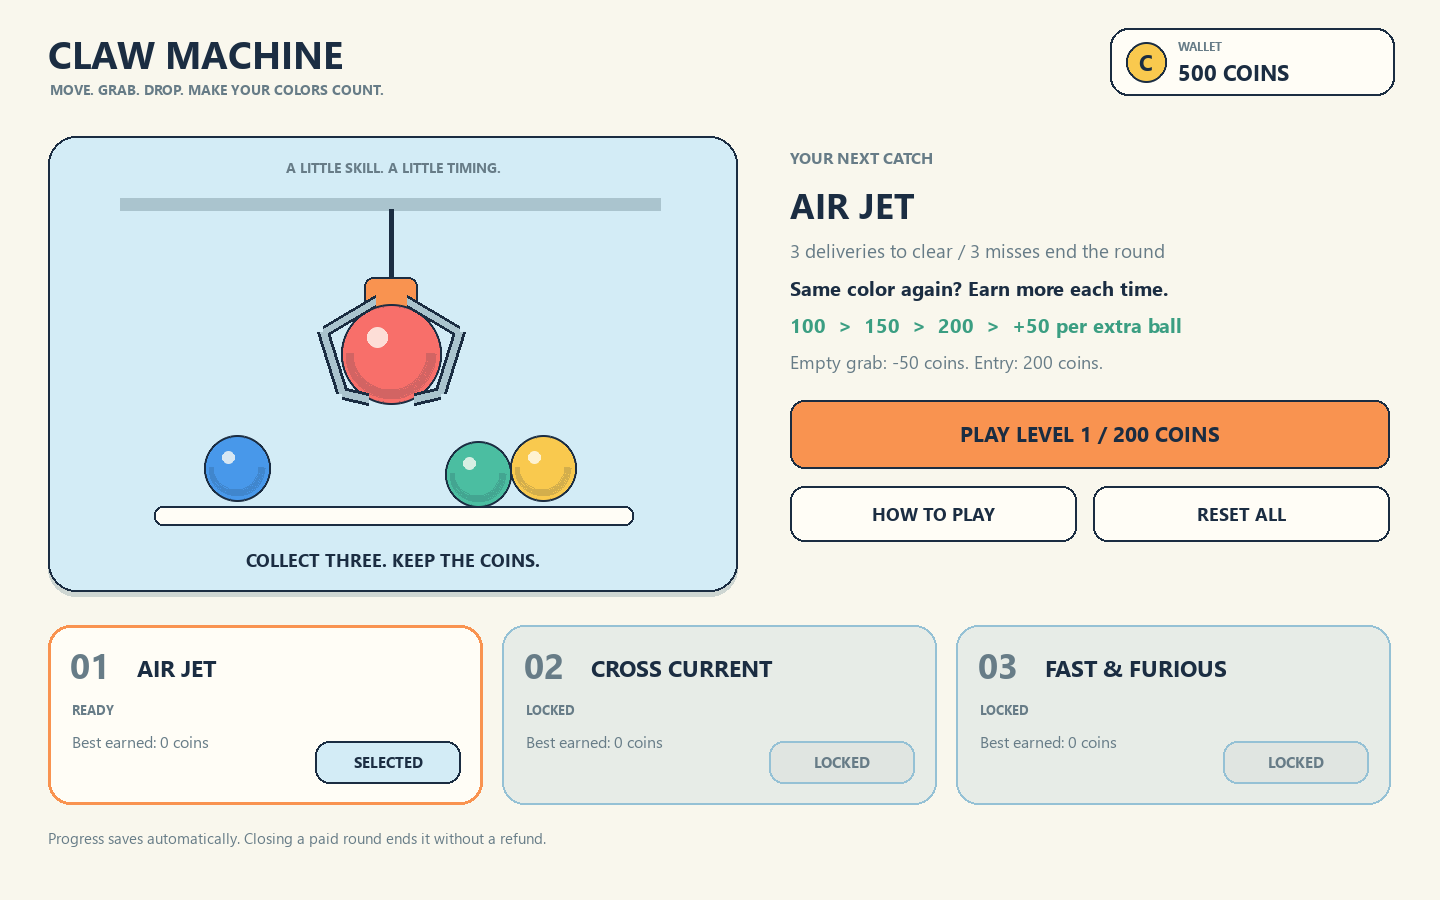
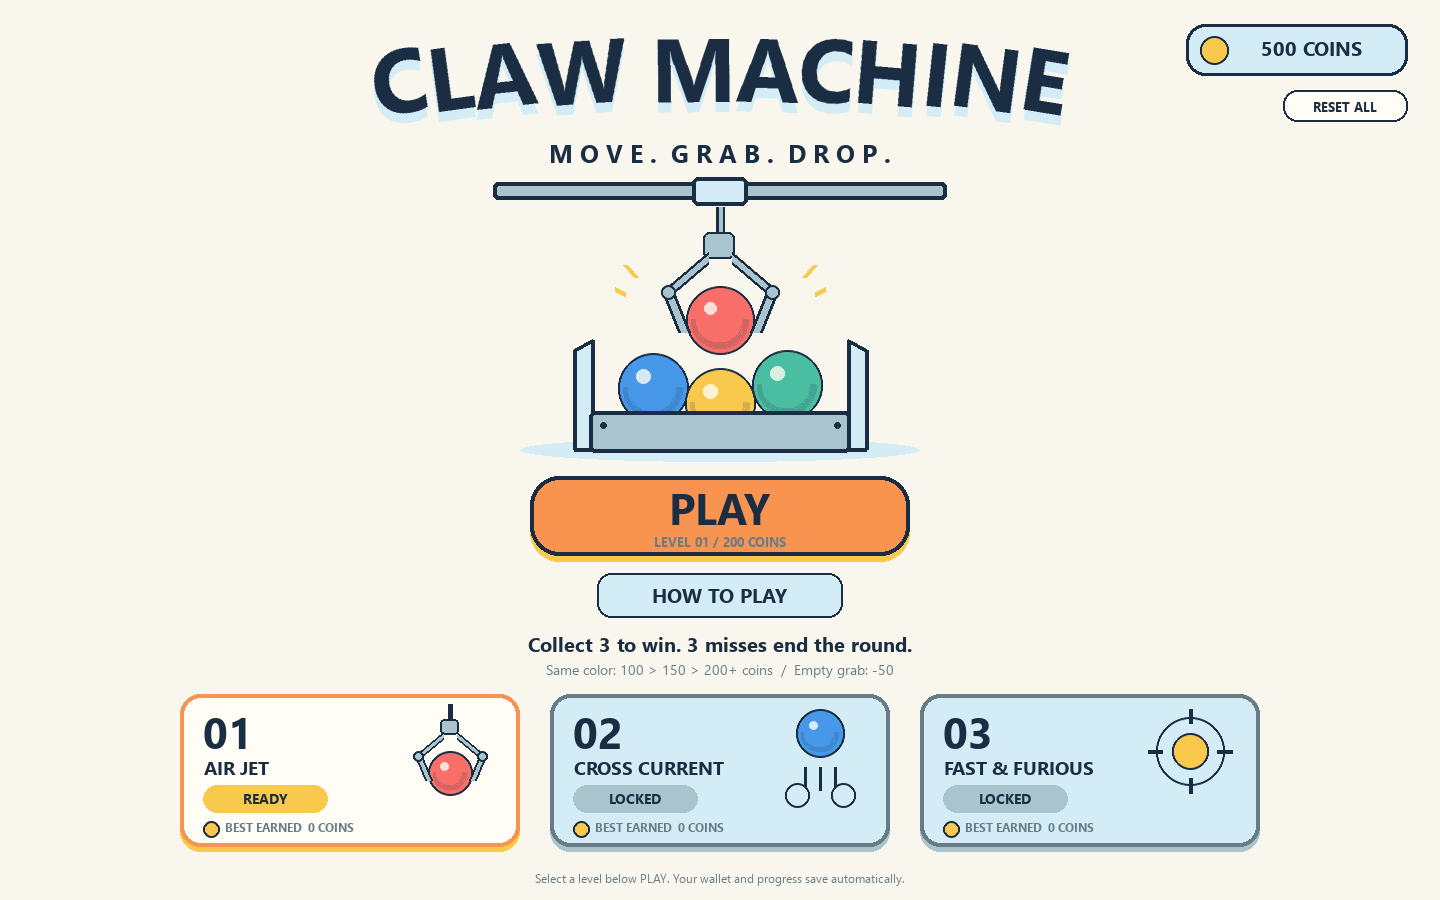
Restore centered illustrated start menu with coin campaign controls

diff --git a/app_view.py b/app_view.py
@@ -70,49 +70,120 @@ class AppView(View):
         self.text(subtitle, 50, 79, 14, MUTED, True)
         self.wallet()
 
+    def menu_title(self):
+        # Cache the curved lettering so the decorative title costs one blit per frame.
+        if not hasattr(self, '_menu_title'):
+            layer = pygame.Surface((1000, 142), pygame.SRCALPHA)
+            font = self.font(180, True)
+            word = 'CLAW MACHINE'
+            total = font.size(word)[0]/2
+            offset = (1000-total)/2
+            for index, char in enumerate(word):
+                left = font.size(word[:index])[0]/2
+                width = font.size(char)[0]/2
+                t = (left+width/2)/total*2-1
+                angle = -t*10
+                center = (round(offset+left+width/2), round(64+13*t*t))
+                for color, dy in ((BLUE, 10), (INK, 0)):
+                    glyph = pygame.transform.rotate(font.render(char, True, color), angle)
+                    glyph = pygame.transform.smoothscale(glyph, (max(1, glyph.get_width()//2), max(1, glyph.get_height()//2)))
+                    layer.blit(glyph, glyph.get_rect(center=(center[0], center[1]+dy)))
+            self._menu_title = layer
+        self.canvas.blit(self._menu_title, (220, 0))
+
+    def menu_claw(self, x, y, scale=1):
+        def point(dx, dy):
+            return (round(x+dx*scale), round(y+dy*scale))
+        self.box((x-14*scale, y-12*scale, 28*scale, 24*scale), STEEL, max(3, round(5*scale)))
+        self.ball(x, y+64*scale, 28*scale, PALETTE[0][1])
+        for side in (-1, 1):
+            points = [point(side*10, 10), point(side*45, 40), point(side*31, 75)]
+            pygame.draw.lines(self.canvas, INK, False, points, max(4, round(11*scale)))
+            pygame.draw.lines(self.canvas, STEEL, False, points, max(2, round(6*scale)))
+            self.circle(*point(side*45, 40), max(2, round(4*scale)), STEEL)
+
+    def level_icon(self, index, x, y):
+        if index == 0:
+            self.line((x, y-37), (x, y-17), INK, 5)
+            self.menu_claw(x, y-13, .70)
+        elif index == 1:
+            self.ball(x, y-8, 22, PALETTE[1][1])
+            for dx in (-15, 0, 15):
+                self.line((x+dx, y+26), (x+dx, y+49), INK, 3)
+            self.circle(x-23, y+54, 10, BLUE)
+            self.circle(x+23, y+54, 10, BLUE)
+        else:
+            self.circle(x, y+10, 32, BLUE)
+            self.circle(x, y+10, 16, PALETTE[2][1])
+            for dx, dy in ((-42, 0), (42, 0), (0, -42), (0, 42)):
+                self.line((x+dx, y+10+dy), (x+dx*.65, y+10+dy*.65), INK, 4)
+
     def menu(self):
         a = self.app
-        self.top('MOVE. GRAB. DROP. MAKE YOUR COLORS COUNT.')
-        self.box((48, 136, 690, 456), BLUE, 28, shadow=True)
-        self.text('A LITTLE SKILL. A LITTLE TIMING.', 393, 157, 14, MUTED, True, True)
-        self.line((120, 204), (660, 204), STEEL, 13)
-        self.line((391, 209), (391, 289), INK, 5)
-        self.box((364, 277, 54, 34), ORANGE, 9)
-        self.ball(391, 354, 48, PALETTE[0][1])
-        for side in (-1, 1):
-            points = [(391+side*16, 301), (391+side*68, 332), (391+side*49, 393), (391+side*23, 399)]
-            pygame.draw.lines(self.canvas, INK, False, points, 13)
-            pygame.draw.lines(self.canvas, STEEL, False, points, 7)
-        self.box((154, 506, 480, 20), PAPER, 8)
-        for x, y, c in ((237, 468, 1), (543, 468, 2), (478, 474, 3)):
-            self.ball(x, y, 31, PALETTE[c][1])
-        self.text('COLLECT THREE. KEEP THE COINS.', 393, 547, 18, bold=True, center=True)
+        self.menu_title()
+        self.text('M O V E .  G R A B .  D R O P .', 720, 136, 25, bold=True, center=True)
 
-        self.text('YOUR NEXT CATCH', 790, 146, 16, MUTED, True)
-        self.text(LEVEL_NAMES[a.selected-1], 790, 181, 35, bold=True)
-        self.text('3 deliveries to clear / 3 misses end the round', 790, 237, 19, MUTED)
-        self.text('Same color again? Earn more each time.', 790, 274, 20, bold=True)
-        self.text('100  >  150  >  200  >  +50 per extra ball', 790, 311, 20, GREEN, True)
-        self.text('Empty grab: -50 coins. Entry: 200 coins.', 790, 349, 18, MUTED)
+        # Compact wallet replaces the old concept's BEST SCORE badge.
+        self.box((1186, 24, 222, 52), BLUE, 19, INK, 3)
+        self.circle(1214, 50, 12, PALETTE[2][1])
+        self.text(f'{a.progress.coins:,} COINS', 1311, 34, 20, bold=True, center=True)
+        self.button('reset', 'RESET ALL', (1283, 90, 125, 32), PAPER, size=13)
+
+        self.box((493, 182, 454, 18), STEEL, 5, INK, 4)
+        self.box((692, 177, 56, 29), BLUE, 6, INK, 4)
+        self.line((720, 207), (720, 232), INK, 9)
+        self.line((720, 207), (720, 232), STEEL, 4)
+        self.menu_claw(720, 246, 1.15)
+        for side in (-1, 1):
+            self.line((720+side*84, 277), (720+side*95, 265), PALETTE[2][1], 5)
+            self.line((720+side*95, 294), (720+side*105, 289), PALETTE[2][1], 5)
+
+        # Open collection tray, with its front panel masking the lower balls.
+        pygame.draw.ellipse(self.canvas, BLUE, (520, 438, 400, 24))
+        for points in (((574, 350), (592, 340), (592, 449), (574, 449)),
+                       ((848, 340), (866, 350), (866, 449), (848, 449))):
+            pygame.draw.polygon(self.canvas, BLUE, points)
+            pygame.draw.polygon(self.canvas, INK, points, 4)
+        for x, y, color in ((653, 388, 1), (720, 403, 2), (787, 385, 3)):
+            self.ball(x, y, 33, PALETTE[color][1])
+        self.box((589, 411, 262, 42), STEEL, 6, INK, 4)
+        for x in (603, 837):
+            self.circle(x, 425, 3, INK, False)
+
         enough = a.progress.coins >= ENTRY_COST and not a.load_blocked
-        self.button('start', f'PLAY LEVEL {a.selected} / 200 COINS', (790, 400, 600, 69), enabled=enough)
-        self.button('help', 'HOW TO PLAY', (790, 486, 287, 56), PAPER, size=18)
-        self.button('reset', 'RESET ALL', (1093, 486, 297, 56), PAPER, size=18)
-        if not enough:
-            self.text('RESET ALL to restore 500 coins and start over.', 790, 559, 17, RED, True)
+        play = pygame.Rect(530, 476, 380, 80)
+        self.box(play.move(0, 6), PALETTE[2][1] if enough else STEEL, 29, width=0)
+        if enough:
+            self.buttons['start'] = play
+        self.box(play, mix(ORANGE, PAPER, .18) if enough and self.mouse and play.collidepoint(self.mouse) else (ORANGE if enough else (224, 229, 225)), 29, INK, 4)
+        self.text('PLAY' if enough else 'NOT ENOUGH COINS', 720, 478 if enough else 491, 43 if enough else 22, bold=True, center=True)
+        self.text(f'LEVEL 0{a.selected} / 200 COINS', 720, 532, 13, MUTED, True, True)
+        self.button('help', 'HOW TO PLAY', (597, 573, 246, 45), BLUE, size=20)
+        self.text('Collect 3 to win. 3 misses end the round.', 720, 630, 20, bold=True, center=True)
+        if enough:
+            self.text('Same color: 100 > 150 > 200+ coins  /  Empty grab: -50', 720, 659, 14, MUTED, center=True)
+        else:
+            self.text('RESET ALL restores 500 coins and clears all progress.', 720, 659, 15, RED, True, True)
+
         for i, name in enumerate(LEVEL_NAMES):
-            x = 48 + i*454
+            x, y = 180+i*370, 694
             unlocked = i+1 <= a.progress.unlocked and not a.load_blocked
             selected = i+1 == a.selected
-            self.box((x, 625, 435, 180), PAPER if unlocked else (231, 236, 231), 22,
-                     ORANGE if selected else MID_BLUE, 3 if selected else 2)
-            self.text(f'0{i+1}', x+22, 641, 35, GREEN if a.progress.cleared[i] else MUTED, True)
-            self.text(name, x+89, 652, 23, bold=True)
-            self.text(('CLEARED' if a.progress.cleared[i] else 'READY') if unlocked else 'LOCKED', x+24, 700, 13, MUTED, True)
-            self.text(f'Best earned: {a.progress.best[i]:,} coins', x+24, 730, 16, MUTED)
-            self.button(f'level_{i+1}', 'SELECTED' if selected else ('SELECT' if unlocked else 'LOCKED'),
-                        (x+267, 741, 146, 43), BLUE, enabled=unlocked, size=15)
-        self.text('Progress saves automatically. Closing a paid round ends it without a refund.', 48, 827, 15, MUTED)
+            border = ORANGE if selected else MUTED
+            fill = PAPER if selected else BLUE
+            self.box((x, y+5, 340, 153), PALETTE[2][1] if selected else STEEL, 20, width=0)
+            self.box((x, y, 340, 153), fill, 20, border, 4)
+            self.text(f'0{i+1}', x+23, y+8, 43, bold=True)
+            self.text(name, x+24, y+60, 19, bold=True)
+            self.level_icon(i, x+270, y+47)
+            label = ('CLEARED' if a.progress.cleared[i] else 'READY') if unlocked else 'LOCKED'
+            self.box((x+23, y+91, 125, 28), PALETTE[2][1] if unlocked else STEEL, 14, width=0)
+            self.text(label, x+85, y+94, 14, bold=True, center=True)
+            self.circle(x+31, y+135, 6, PALETTE[2][1])
+            self.text(f'BEST EARNED  {a.progress.best[i]:,} COINS', x+45, y+125, 12, MUTED, True)
+            if unlocked:
+                self.buttons[f'level_{i+1}'] = pygame.Rect(x, y, 340, 153)
+        self.text('Select a level below PLAY. Your wallet and progress save automatically.', 720, 870, 12, MUTED, center=True)
 
     def header(self, game):
         self.text('CLAW MACHINE', 34, 24, 31, bold=True)

diff --git a/test_ui.py b/test_ui.py
@@ -37,7 +37,7 @@ class EventLoopTests(unittest.TestCase):
                 self.assertEqual(app.screen, 'menu')
                 self.assertEqual(app.progress.coins, 500)
                 phase = 'started'
-                return event(pygame.MOUSEBUTTONDOWN, button=1, pos=(1000, 430))
+                return event(pygame.MOUSEBUTTONDOWN, button=1, pos=(720, 510))
             if phase == 'started':
                 game = app.game
                 self.assertEqual(app.progress.coins, 300)

diff --git a/PROCESS.md b/PROCESS.md
@@ -77,6 +77,13 @@ Fill in after that real session (no participant name needed):
 
 ### Three-level coin campaign — 28 October 2026
 
+After viewing the implemented menu, the student preferred the earlier concept's
+centered composition. The start screen was revised to use a large curved title,
+a central claw and open tray, a prominent PLAY button, HOW TO PLAY below it and
+three illustrated level cards along the bottom. The earlier BEST SCORE badge
+became a coin wallet; stars became best-earnings records. The paid-entry rules,
+new levels, unlocks and persistent progress remain part of this layout.
+
 The student requested a start menu, money instead of stars, increasing same-color
 rewards, a deduction for empty grabs and two extra levels. Level 2 starts empty
 with three left-side launchers and a right recycler. Level 3 is faster, changes

diff --git a/VALIDATION.md b/VALIDATION.md
@@ -2,6 +2,12 @@
 
 ## Campaign upgrade — 28 October 2026
 
+The subsequent centered-menu revision passed the event-loop integration and
+three font-startup regressions (four targeted checks). The actual rendered menu
+was visually inspected, including its title, central illustration, entry fee,
+wallet, level cards and reset control. The integration click was updated to the
+new PLAY button and still verifies the charge and physical delivery flow.
+
 - **34 automated tests passed** in the student's cached Pygame runtime.
   Coverage includes the original 17 physics checks, 13 campaign/storage/stream
   checks, three font regressions and the updated real-event-loop integration.

diff --git a/README.md b/README.md
@@ -39,6 +39,9 @@ repository and its Week 4 environment.
 
 Select an unlocked level on the start screen, then press **PLAY / 200 COINS**.
 Each level entry, including NEXT LEVEL and RETRY, costs **200 coins**.
+The illustrated level cards along the bottom select the level; the centered
+PLAY button shows the selected level and entry fee. The top-right badge shows
+your wallet, with RESET ALL directly below it.
 
 1. **MOVE:** move the mouse inside the arena. The carriage follows horizontally
    at a limited speed. The dashed guide shows its current aim.
